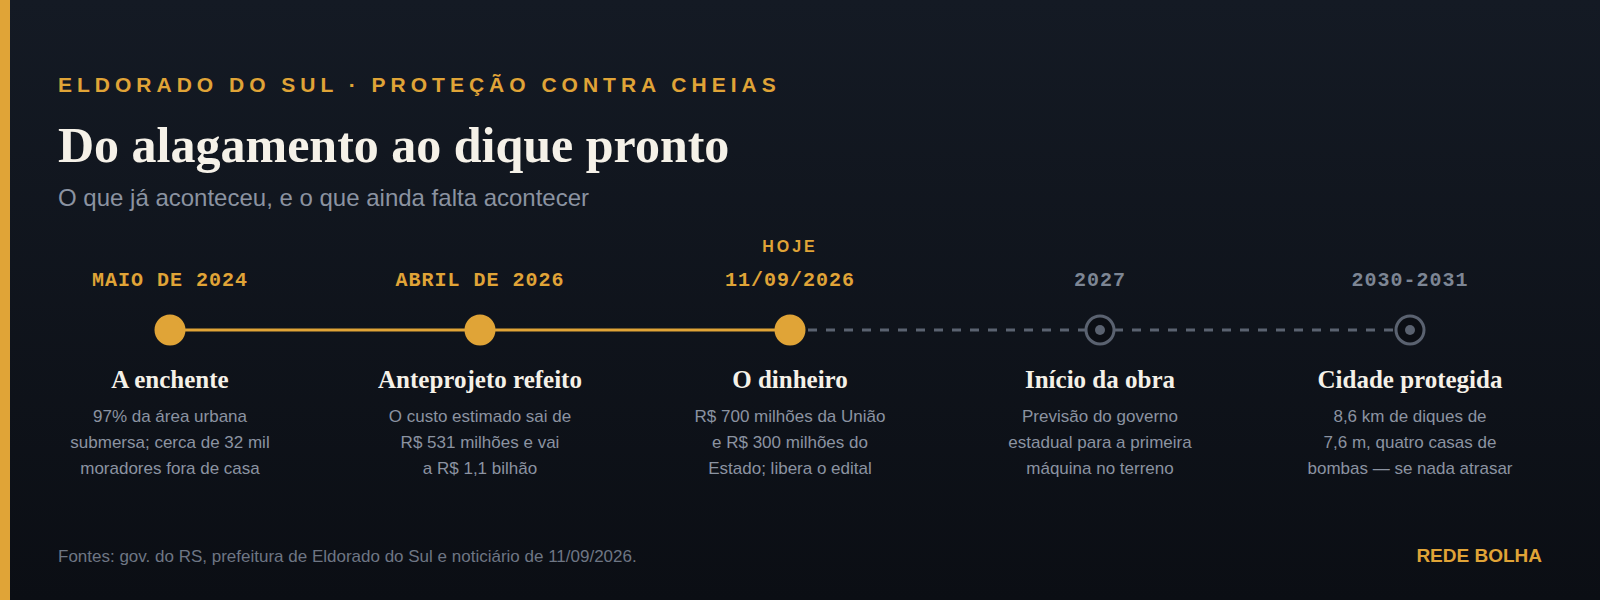
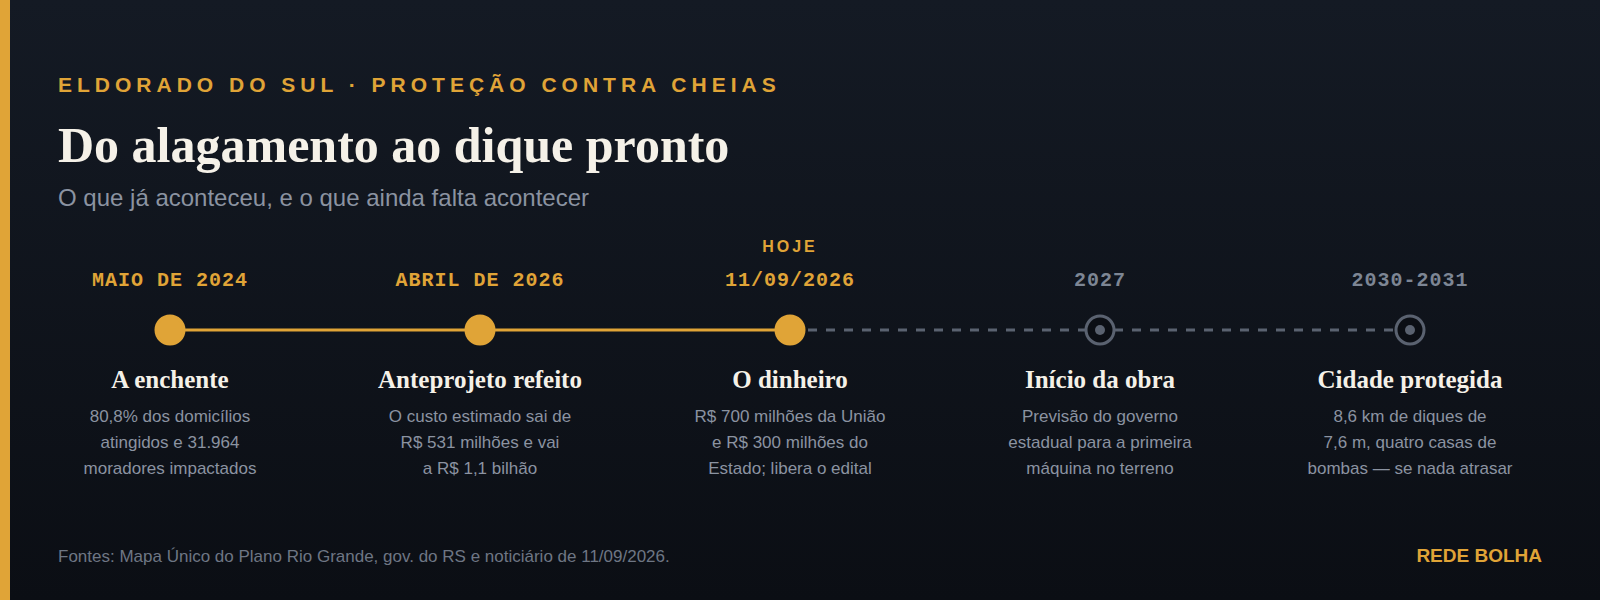
Troca os números da enchente pelo levantamento oficial do Estado
Eu tinha usado estimativas da prefeitura divulgadas no calor de maio de 2024:
97% da área urbana e 20 mil residências atingidas. O Mapa Único do Plano Rio
Grande, levantamento oficial do governo do Estado, é mais firme e mais
específico: 80,8% dos domicílios atingidos e 31.964 moradores impactados, de
uma cidade de 39.556 habitantes.

Os dois números convivem — um mede área alagada, o outro mede casa com água
dentro —, mas quem sustenta o texto agora é o oficial, com a estimativa da
prefeitura citada como o que é. A linha do tempo e a lista de fontes
acompanham.

Claude-Session: https://claude.ai/code/session_01DFECAeG4FZfea9HDsfvyz9

Changed region(s): [[0.0625, 0.9, 0.4062, 0.96], [0.0312, 0.66, 0.1875, 0.81]]

diff --git a/economia/dique-eldorado-do-sul-um-bilhao.html b/economia/dique-eldorado-do-sul-um-bilhao.html
@@ -123,7 +123,9 @@ src="https://www.facebook.com/tr?id=2570806596755923&ev=PageView&noscript=1" alt
 
   <p>Não é o da chuva. É o do telefone tocando de madrugada.</p>
 
-  <p>Eu moro nesta cidade. Em maio de 2024 a água tomou praticamente tudo — a prefeitura estimou <strong>97% da área urbana submersa</strong>, cerca de <strong>32 mil dos nossos 39 mil moradores</strong> tendo que sair às pressas, <strong>20 mil casas atingidas</strong>. Eu vi vizinho sair com uma sacola na mão e trinta anos de vida ficando para trás.</p>
+  <p>Eu moro nesta cidade. Em maio de 2024 a água tomou praticamente tudo. O Mapa Único do Plano Rio Grande, o levantamento oficial do governo do Estado, registrou <strong>80,8% dos domicílios atingidos</strong> e <strong>31.964 moradores impactados</strong> — numa cidade de 39.556 habitantes. A prefeitura estimou 97% da área urbana debaixo d'água.</p>
+
+  <p>Traduzindo: de cada dez casas de Eldorado do Sul, oito tomaram água. E oito em cada dez moradores viram a própria vida molhada. Eu vi vizinho sair com uma sacola na mão e trinta anos ficando para trás.</p>
 
   <p>Nesta sexta-feira, 11 de setembro, numa sala reservada da base aérea de Canoas, aconteceu a coisa mais burocrática do mundo: gente de terno assinou papel. E essa coisa burocrática é, provavelmente, a melhor notícia que esta cidade recebeu desde que a água baixou.</p>
 
@@ -228,7 +230,7 @@ src="https://www.facebook.com/tr?id=2570806596755923&ev=PageView&noscript=1" alt
   </div>
 
   <p class="fontes">
-    <b>Fontes.</b> Reunião de 11/09/2026 na base aérea de Canoas, com o presidente da República, o governador do Rio Grande do Sul e os prefeitos de Porto Alegre, Canoas e Eldorado do Sul, conforme noticiário do dia (<em>Jornal do Comércio</em>, <em>Agora no Vale</em>, <em>abc+</em>, Agência GBC e Poder360). Valores do Firece e do Funrigs e destravamento do edital, conforme o mesmo noticiário. Dimensões do sistema — 8,6 km de diques, 7,6 metros de altura, quatro casas de bombas e quatro bacias de amortecimento — e a revisão de custo de R$ 531 milhões para cerca de R$ 1,1 bilhão, conforme apresentação do anteprojeto atualizado pelo governo do Estado. Previsão de início da obra em 2027 e duração de três a quatro anos, conforme o governo estadual. Dados da enchente de maio de 2024 — 97% da área urbana atingida, cerca de 32 mil moradores fora de casa e 20 mil residências afetadas — conforme boletins da prefeitura de Eldorado do Sul divulgados à época e reproduzidos por <em>Sul21</em>, <em>Agência Brasil</em> e <em>Poder360</em>. População de 39.556 habitantes, Censo 2022 do IBGE. Funrigs instituído pela Lei estadual 16.134, de 24 de maio de 2024.
+    <b>Fontes.</b> Reunião de 11/09/2026 na base aérea de Canoas, com o presidente da República, o governador do Rio Grande do Sul e os prefeitos de Porto Alegre, Canoas e Eldorado do Sul, conforme noticiário do dia (<em>Jornal do Comércio</em>, <em>Agora no Vale</em>, <em>abc+</em>, Agência GBC e Poder360). Valores do Firece e do Funrigs e destravamento do edital, conforme o mesmo noticiário. Dimensões do sistema — 8,6 km de diques, 7,6 metros de altura, quatro casas de bombas e quatro bacias de amortecimento — e a revisão de custo de R$ 531 milhões para cerca de R$ 1,1 bilhão, conforme apresentação do anteprojeto atualizado pelo governo do Estado. Previsão de início da obra em 2027 e duração de três a quatro anos, conforme o governo estadual. Dados da enchente de maio de 2024 — 80,8% dos domicílios atingidos e 31.964 moradores impactados — conforme o Mapa Único do Plano Rio Grande (MUP), levantamento do governo do Rio Grande do Sul, publicado por <em>O Globo</em> em 31/05/2024. A estimativa de 97% da área urbana submersa é da prefeitura de Eldorado do Sul, divulgada à época e reproduzida por <em>Sul21</em>, <em>Agência Brasil</em> e <em>Poder360</em>. População de 39.556 habitantes, Censo 2022 do IBGE. Funrigs instituído pela Lei estadual 16.134, de 24 de maio de 2024.
   </p>
 
   <p class="aviso">
